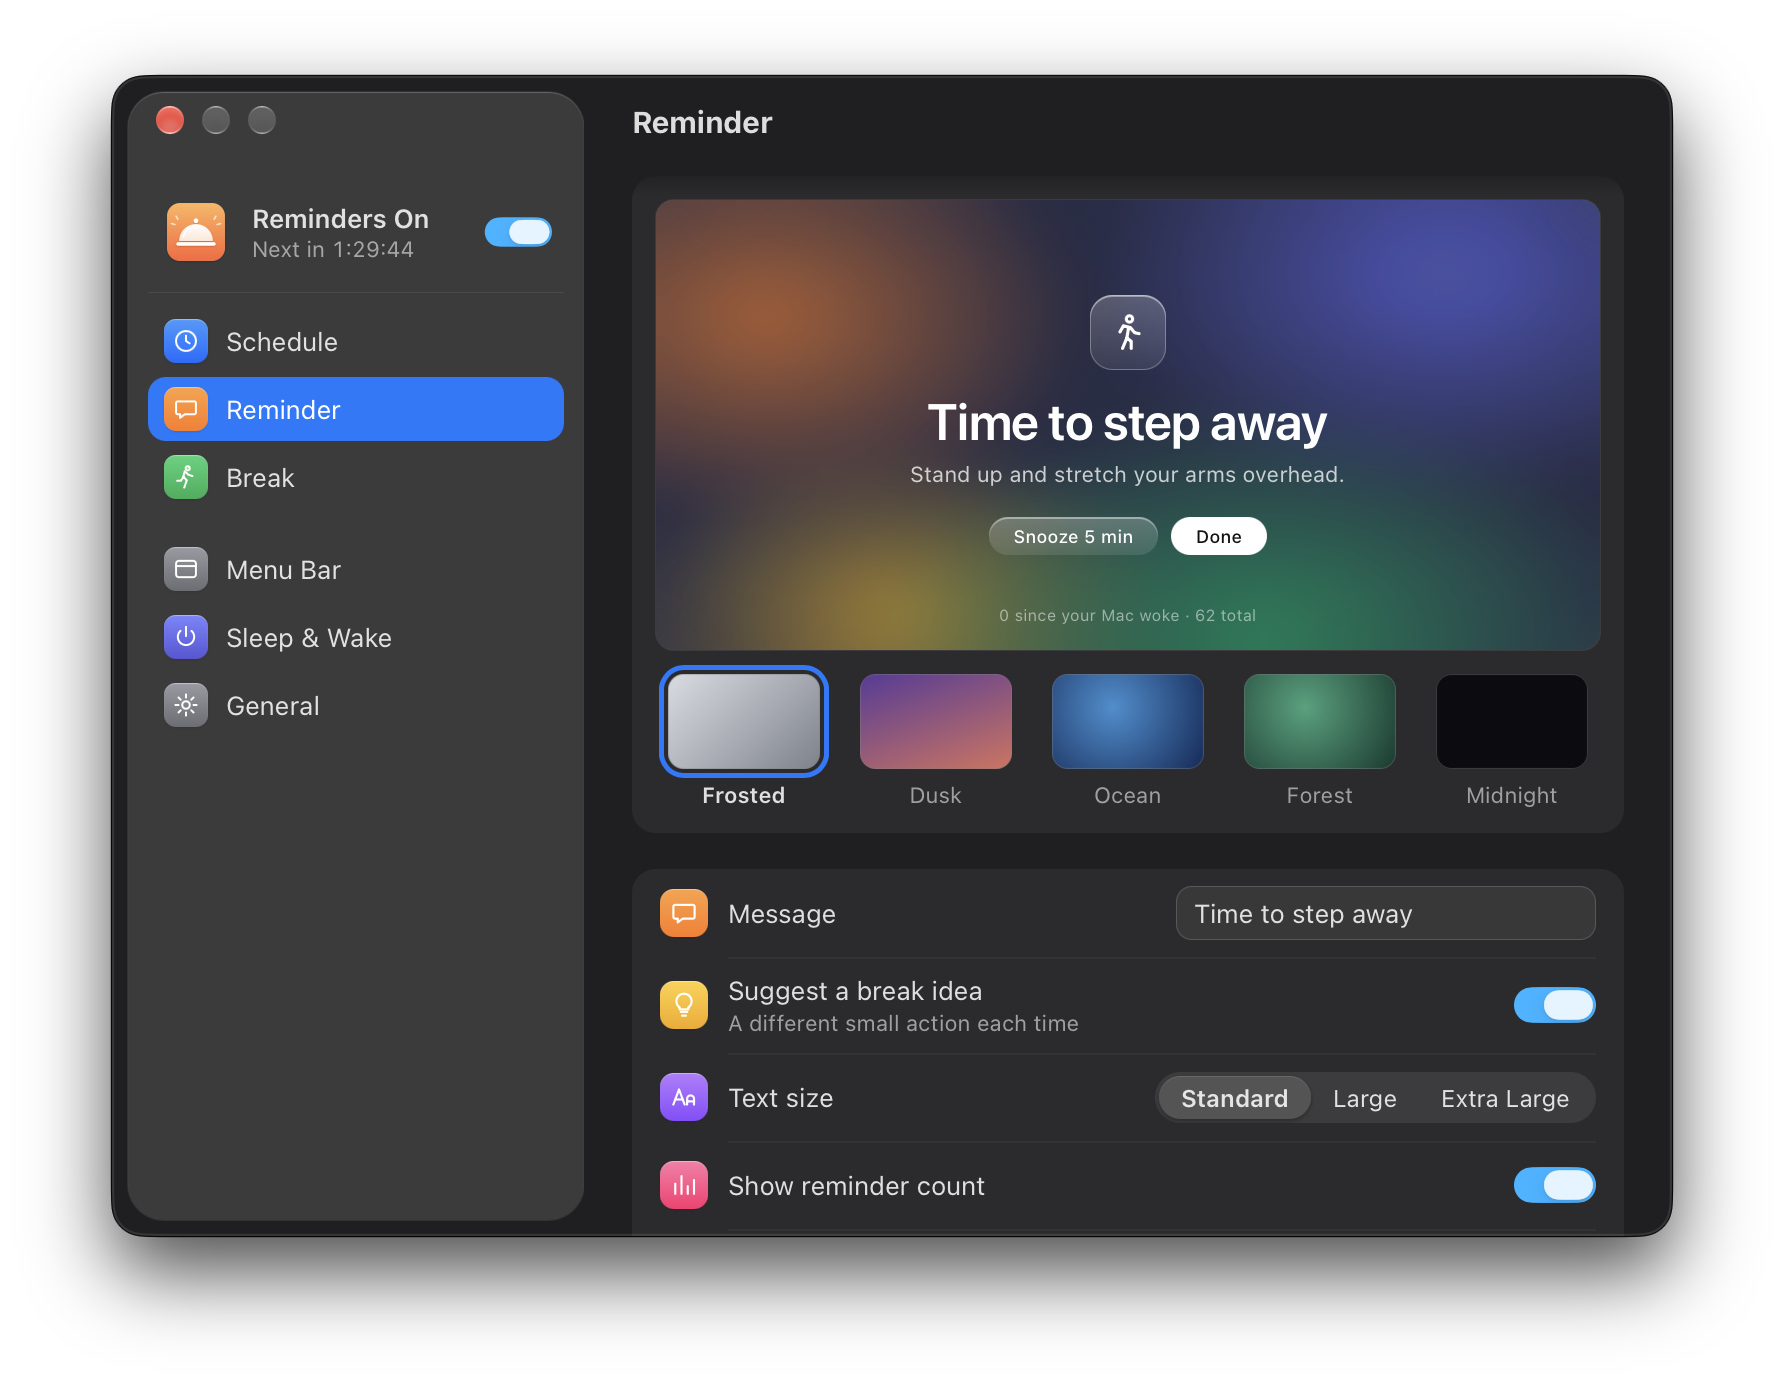
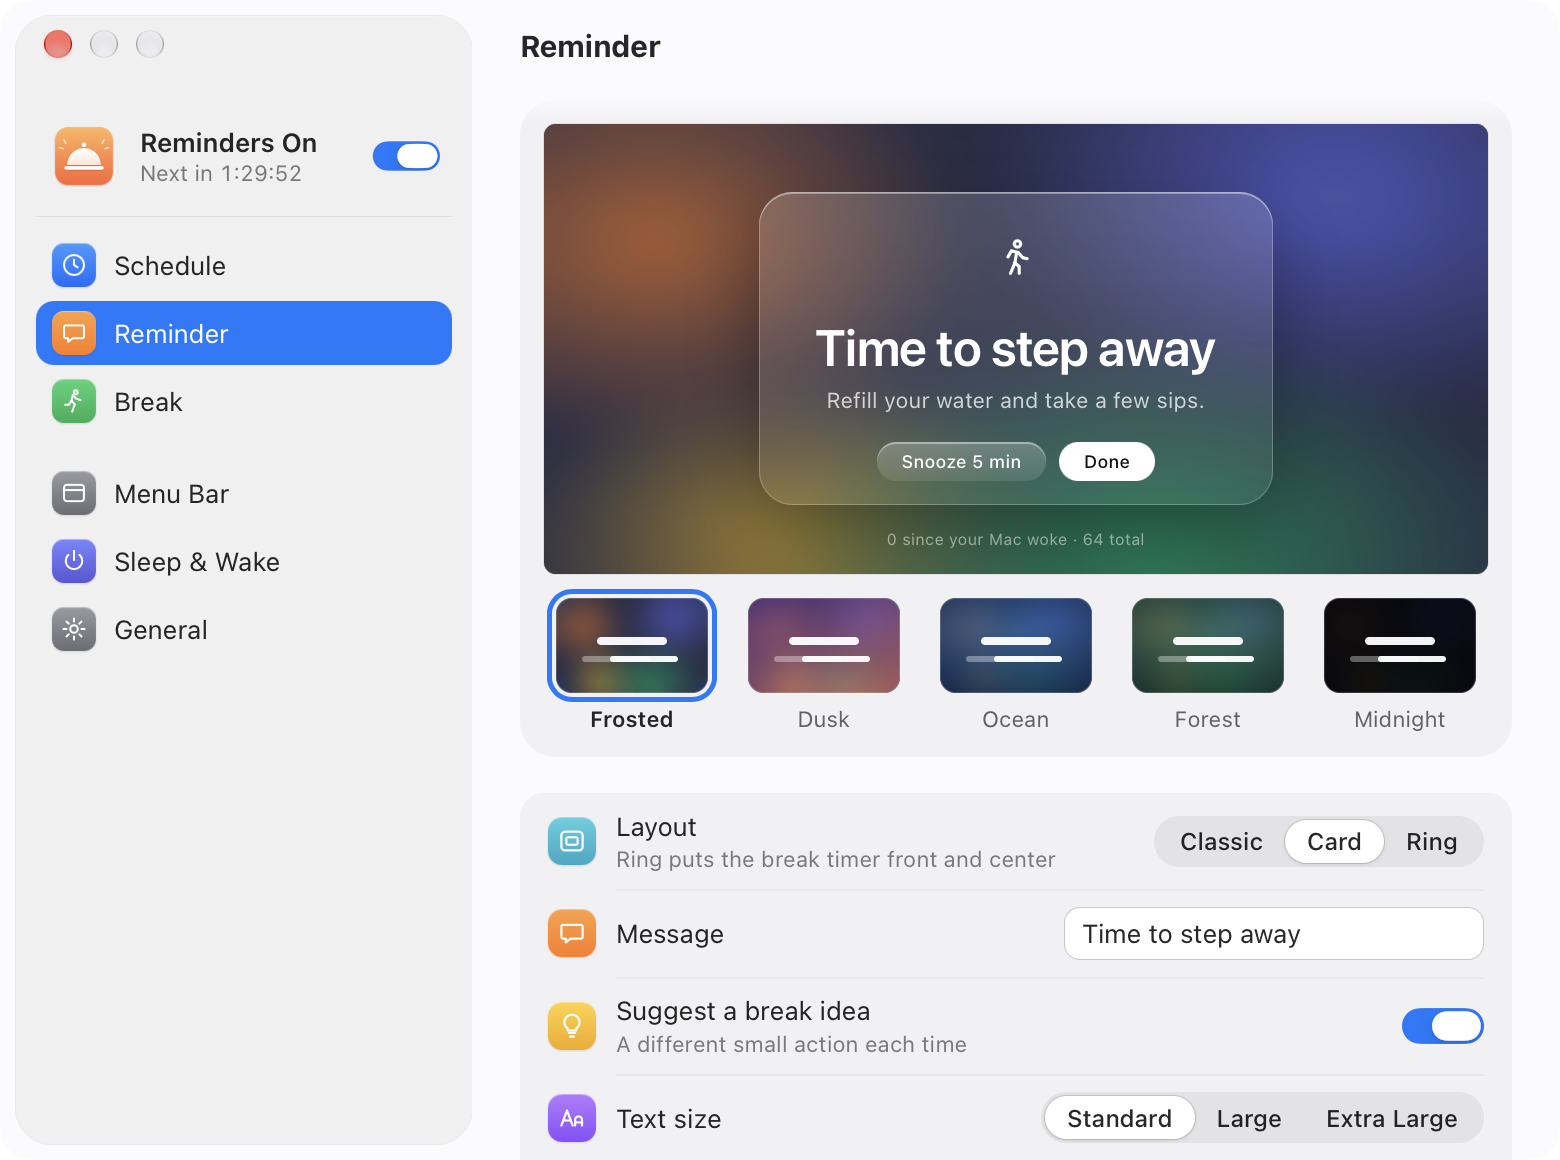
document reminder layouts and refresh settings snapshot for 0.2.0

diff --git a/ui-tests/README.md b/ui-tests/README.md
@@ -2,13 +2,16 @@
 
 ## 2026-09-27
 
-Captured from the signed release build (working tree after `59099a6`) on
-macOS 27, dark appearance, Retina (2x), with `screencapture -l <window id>`.
+Captured from the signed release build on macOS 27, Retina (2x), with
+`screencapture -l <window id>`.
 
 - `settings-2026-09-27.png`: the redesigned Settings window (780x580
   logical), a System Settings–style sidebar over the native window material,
-  showing the Reminder page with its live preview and style picker.
-- `about-2026-09-27.png`: the About panel opened from the menu bar menu.
+  showing the Reminder page with its live preview, style swatches and the
+  Classic / Card / Ring layout picker (0.2.0, `b9117d1`, light appearance,
+  Card selected).
+- `about-2026-09-27.png`: the About panel opened from the menu bar menu
+  (working tree after `59099a6`, dark appearance).
 
 The overlay was not recaptured: showing it takes over every screen, and the
 button styling change is small. `overlay-current.png` still shows the layout.

diff --git a/README.md b/README.md
@@ -39,6 +39,9 @@ matters most if you have ADHD or tend to hyperfocus:
   not fade into the background
 - Five reminder styles (Frosted, Dusk, Ocean, Forest, Midnight) and three text
   sizes, with a Preview button
+- Three reminder layouts: Classic (text on the backdrop), Card (a glass panel)
+  and Ring (a large ring around the icon that counts down the break when a
+  break length is set)
 - Break length: the reminder can close by itself after 20 seconds to 10
   minutes, with a ring that shows the time left
 - Snooze length (or no snooze button at all)
